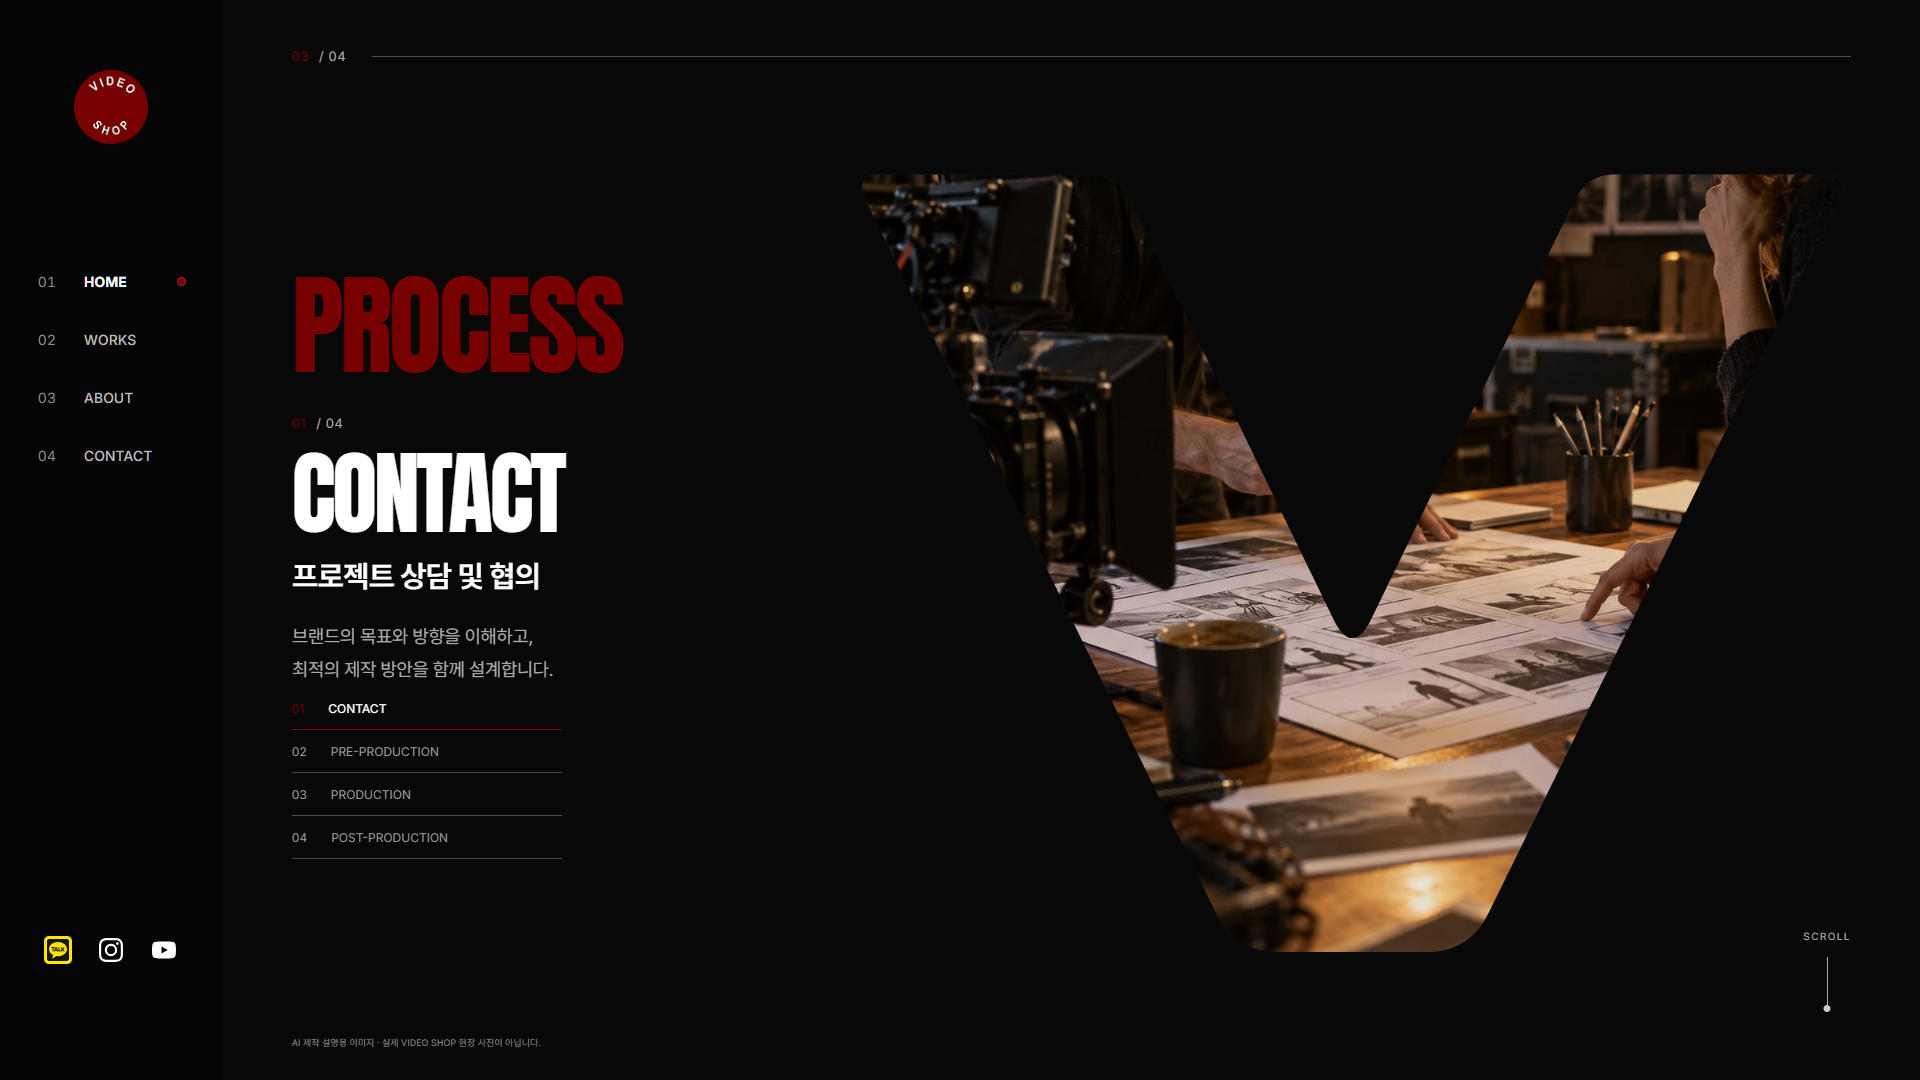
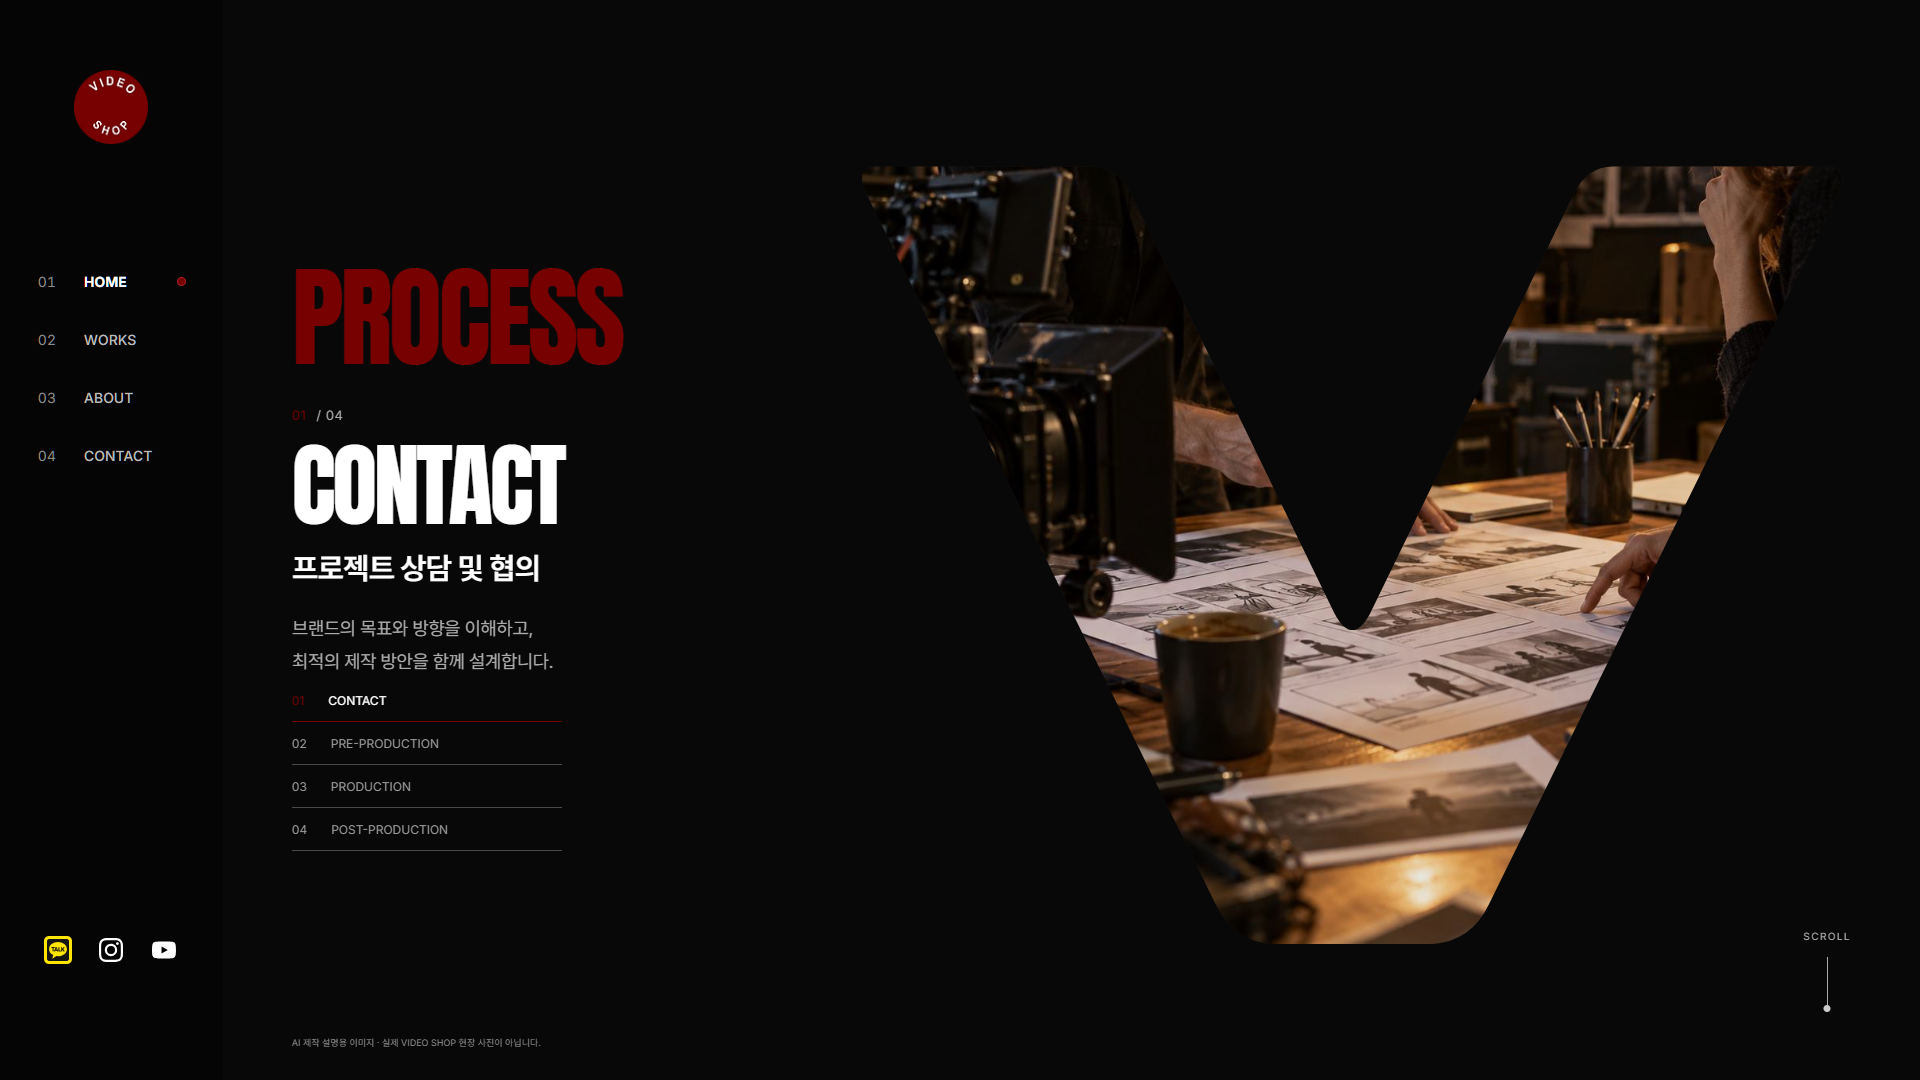
Update Site source

diff --git a/src/styles/process.css b/src/styles/process.css
@@ -1,8 +1,8 @@
 .process-section{position:relative;height:500svh;background:var(--black)}
 .process-stage{position:sticky;top:0;height:100svh;min-height:660px;padding:48px clamp(32px,3.6vw,70px) 30px;display:flex;flex-direction:column;overflow:hidden}
-.process-section-index{display:flex;gap:10px;align-items:center;color:#aaa;font-size:13px;letter-spacing:.04em;flex-shrink:0}
-.process-section-index>span:first-child,.process-step-index>span:first-child{color:var(--red)}
-.process-section-index>i{height:1px;flex:1;background:#4c4c4c;margin-left:16px}
+
+.process-step-index>span:first-child{color:var(--red)}
+
 .process-layout{display:grid;grid-template-columns:minmax(270px,.35fr) minmax(0,.65fr);gap:25px;flex:1;min-height:0;align-items:center;margin-top:45px}
 .process-text{align-self:stretch;display:flex;flex-direction:column;justify-content:center;min-width:0}
 .process-text h2,.process-copy h3{font-family:Anton,Impact,'Arial Narrow',sans-serif;font-weight:400;letter-spacing:-.035em;line-height:1.05;margin:0;white-space:nowrap}
@@ -35,7 +35,8 @@
 .process-image-note{font-size:9px;color:#888;line-height:1.6;letter-spacing:0;margin:18px 0 0;flex-shrink:0}
 @media(min-width:768px) and (max-width:1279px){.process-stage{padding:35px 28px 22px}.process-layout{grid-template-columns:minmax(225px,.42fr) minmax(0,.58fr);gap:18px;margin-top:30px}.process-text h2{font-size:64px}.process-copy{height:235px}.process-copy h3{font-size:52px}.process-copy h3.process-long-title{font-size:27px;min-height:55px}.process-copy h4{font-size:18px}.process-copy p{font-size:12px}.process-steps button{font-size:10px;gap:16px}.process-v-frame{max-height:65svh}.process-scroll{bottom:40px}}
 @media(min-width:768px) and (max-width:900px){.process-layout{grid-template-columns:1fr;grid-template-rows:auto minmax(0,1fr);gap:20px;margin-top:25px}.process-text{display:grid;grid-template-columns:1fr 1.4fr;gap:20px;align-items:start}.process-text h2{font-size:58px}.process-copy{height:200px}.process-copy h3{font-size:45px}.process-copy h3.process-long-title{font-size:28px;min-height:47px}.process-steps-desktop{display:none}.process-steps-mobile{display:flex;position:absolute;bottom:28px;left:0;right:0}.process-steps-mobile button{flex:1;justify-content:center}.process-step-name{display:none}.process-v-frame{width:100%;max-width:470px;max-height:50svh}.process-scroll{bottom:0}.process-scroll>span{height:20px}.process-image-note{margin-top:35px}}
-@media(max-width:767px){body.process-header-pinned .mobile-header{position:fixed}.process-stage{padding:112px 22px 16px;min-height:720px}.process-section-index{font-size:10px;gap:7px}.process-section-index>i{display:none}.process-layout{display:flex;flex-direction:column;gap:0;margin-top:8px;align-items:stretch}.process-text{flex:0 0 auto;display:block}.process-text h2{font-size:49px;margin-bottom:18px}.process-copy{height:174px}.process-step-index{font-size:10px;gap:7px;margin-bottom:9px}.process-copy h3{font-size:45px;line-height:1.08;margin-bottom:9px}.process-copy h3.process-long-title{font-size:clamp(26px,7.5vw,34px);line-height:1.2;min-height:48px;letter-spacing:-.045em}.process-copy h4{font-size:18px;margin-bottom:12px;line-height:1.4}.process-copy p{font-size:12px;line-height:1.85}.process-visual{flex:1;flex-direction:column;justify-content:flex-start;gap:0}.process-v-frame{flex:1;min-height:0;max-height:35svh;aspect-ratio:auto;width:100%;margin-top:5px}.process-image-layer img{object-position:var(--process-mobile-position)}.process-steps-desktop{display:none}.process-steps-mobile{display:flex;width:100%;margin-top:14px;flex-shrink:0}.process-steps-mobile button{justify-content:center;flex:1;min-height:32px;padding:7px 0;font-size:10px}.process-steps-mobile .process-step-name{display:none}.process-scroll{position:static;gap:6px;font-size:7px;margin-top:16px;flex-shrink:0}.process-scroll>span{height:30px}.process-scroll>span:after{width:6px;height:6px}.process-image-note{font-size:7px;line-height:1.4;margin-top:12px;text-align:center}}
+@media(max-width:767px){body.process-header-pinned .mobile-header{position:fixed}.process-stage{padding:112px 22px 16px;min-height:720px}.process-layout{display:flex;flex-direction:column;gap:0;margin-top:8px;align-items:stretch}.process-text{flex:0 0 auto;display:block}.process-text h2{font-size:49px;margin-bottom:18px}.process-copy{height:174px}.process-step-index{font-size:10px;gap:7px;margin-bottom:9px}.process-copy h3{font-size:45px;line-height:1.08;margin-bottom:9px}.process-copy h3.process-long-title{font-size:clamp(26px,7.5vw,34px);line-height:1.2;min-height:48px;letter-spacing:-.045em}.process-copy h4{font-size:18px;margin-bottom:12px;line-height:1.4}.process-copy p{font-size:12px;line-height:1.85}.process-visual{flex:1;flex-direction:column;justify-content:flex-start;gap:0}.process-v-frame{flex:1;min-height:0;max-height:35svh;aspect-ratio:auto;width:100%;margin-top:5px}.process-image-layer img{object-position:var(--process-mobile-position)}.process-steps-desktop{display:none}.process-steps-mobile{display:flex;width:100%;margin-top:14px;flex-shrink:0}.process-steps-mobile button{justify-content:center;flex:1;min-height:32px;padding:7px 0;font-size:10px}.process-steps-mobile .process-step-name{display:none}.process-scroll{position:static;gap:6px;font-size:7px;margin-top:16px;flex-shrink:0}.process-scroll>span{height:30px}.process-scroll>span:after{width:6px;height:6px}.process-image-note{font-size:7px;line-height:1.4;margin-top:12px;text-align:center}}
 @media(max-width:767px) and (max-height:760px){.process-stage{padding-top:95px;min-height:650px}.process-text h2{font-size:43px;margin-bottom:13px}.process-copy{height:157px}.process-copy h3{font-size:40px}.process-copy h4{font-size:16px;margin-bottom:9px}.process-copy p{font-size:11px}.process-scroll{margin-top:10px}.process-scroll>span{height:20px}}
 @media(prefers-reduced-motion:reduce){.process-copy-panel,.process-image-layer{transition:none}}
 .process-copy h3.process-long-title{font-size:clamp(30px,3.8vw,65px)}@media(min-width:901px) and (max-width:1279px){.process-copy h3.process-long-title{font-size:30px}}@media(min-width:768px) and (max-width:900px){.process-copy h3.process-long-title{font-size:36px}}@media(max-width:767px){.process-copy{height:186px}.process-copy h3{min-height:58px;display:flex;align-items:center}.process-copy h3.process-long-title{font-size:clamp(40px,12.5vw,54px);min-height:58px;line-height:1.1}.process-image-note{font-size:8px}}@media(max-width:767px) and (max-height:760px){.process-copy{height:176px}.process-copy h3.process-long-title{font-size:clamp(36px,11.5vw,48px)}}
+

diff --git a/tests/process.spec.ts b/tests/process.spec.ts
@@ -40,8 +40,8 @@ for(const size of sizes){test(`PROCESS scroll ${size.width}x${size.height}`,asyn
     if(size.width<768){
       await expect(page.locator('.mobile-header')).toHaveCSS('position','fixed');
       const header=await page.locator('.mobile-header').boundingBox();
-      const kicker=await page.locator('.process-section-index').boundingBox();
-      expect(header!.y+header!.height).toBeLessThanOrEqual(kicker!.y+1);
+      const heading=await page.locator('#process-heading').boundingBox();
+      expect(header!.y+header!.height).toBeLessThanOrEqual(heading!.y+1);
       const copy=await panel.boundingBox();
       expect(copy!.y+copy!.height).toBeLessThanOrEqual(frame!.y+1);
     }else await expect(page.locator('.sidebar nav a.active')).toContainText('HOME');

diff --git a/src/components/ProcessSection.tsx b/src/components/ProcessSection.tsx
@@ -72,7 +72,6 @@ export default function ProcessSection(){
 
   return <section id="process" ref={section} className="process-section" aria-labelledby="process-heading" data-step={active+1}>
     <div ref={stage} className="process-stage">
-      <div className="process-section-index"><span>03</span><span>/ 04</span><i/></div>
       <div className="process-layout">
         <div className="process-text">
           <h2 id="process-heading">PROCESS</h2>
